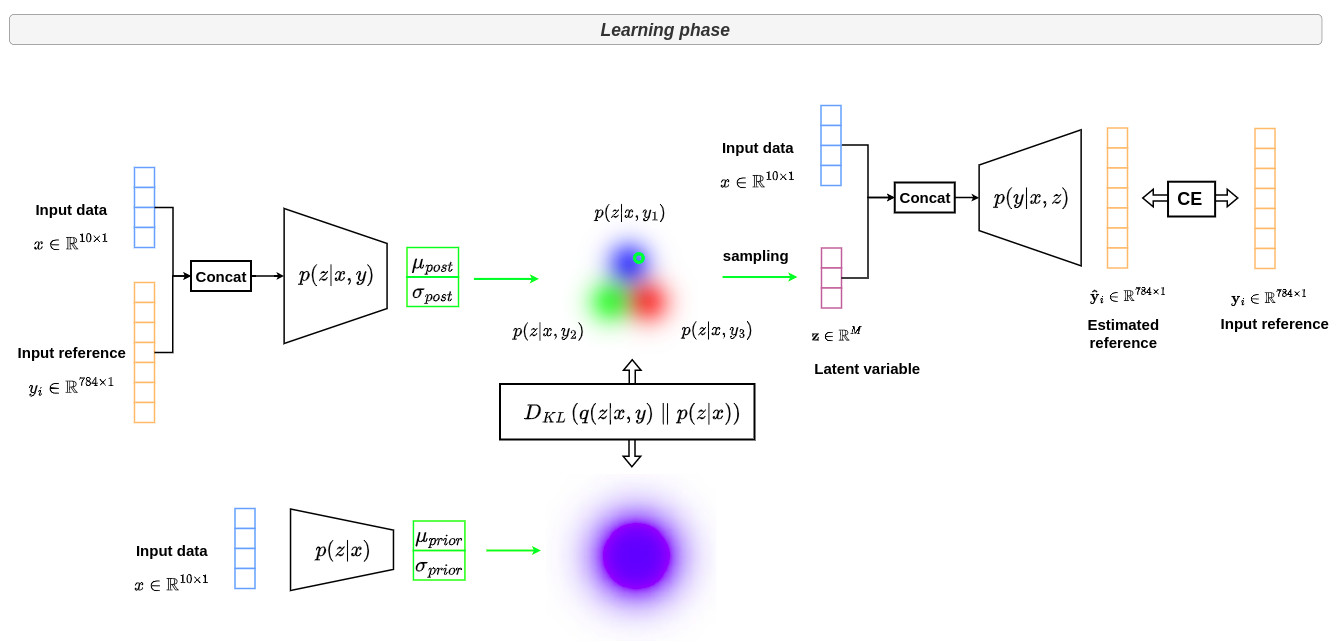
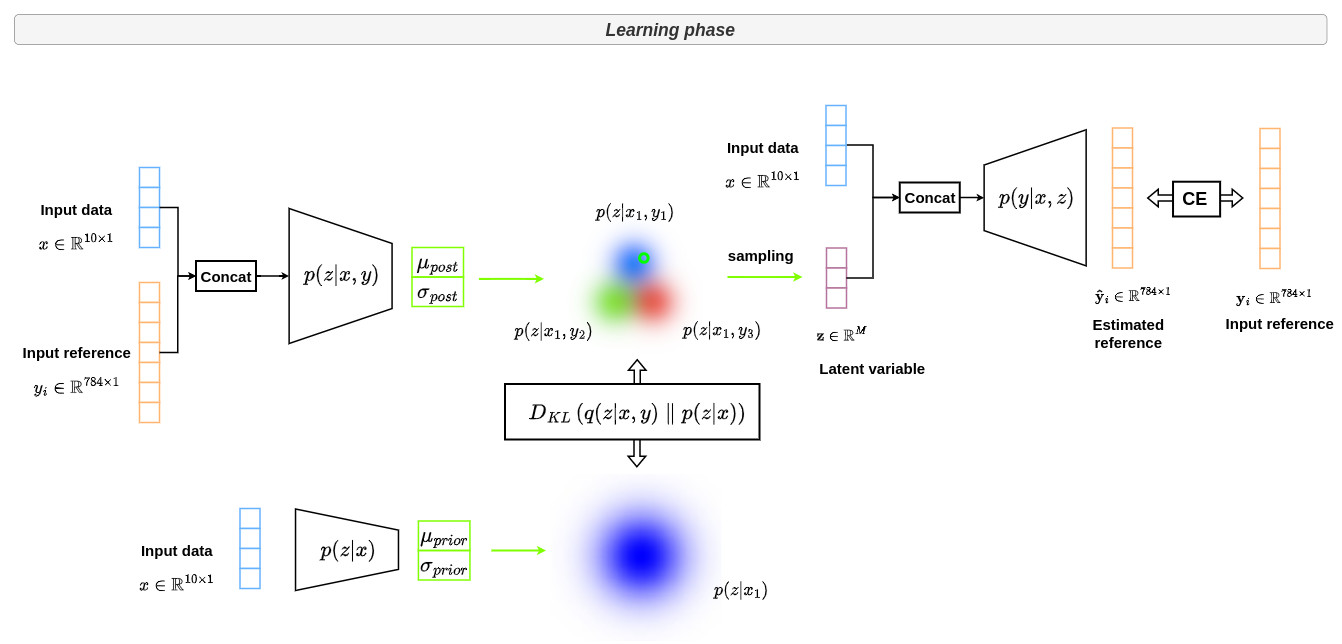
minor changes => fix mitakes + update some figures

diff --git a/collections/_tutorials/2022-09-12-tutorial-cvae.md b/collections/_tutorials/2022-09-12-tutorial-cvae.md
@@ -74,7 +74,7 @@ In parallel, the prior network learns to match this distribution by learning $$p
 
 The goal of conditional VAE is to approximate a $$p(y \vert x)$$ distribution through a latent space that captures the variability of references by learning the $$p(z \vert x,y)$$ distribution. This way, the distribution $$p(y \vert x,z)$$ will allow to generate multiple plausible references from a given $$x$$. The following scheme is applied:
 * for a given observation $$x$$, a set of latent variables $$z_i$$ is generated from $$p(z \vert x,y)$$ thanks to the sampling of the latent space posterior.
-* The set of latent variables are then combined with the observation and passed through the conditional generative process $$p(y \vert x,z)$$ to generate samples from the distribution $$y$$.
+* The set of latent variables are then combined with the observation $$x$$ and passed through the conditional generative process $$p(y \vert x,z)$$ to generate samples from the distribution $$y$$.
 * The resulting predictive distribution is finally obtained through the following expression:
 
 $$p(y \vert x) = \int_z{p(y \vert x,z) \cdot p(z \vert x) \,dz}$$
@@ -83,7 +83,7 @@ $$p(y \vert x) = \int_z{p(y \vert x,z) \cdot p(z \vert x) \,dz}$$
 
 As for the variational autoencoders, the key challenge around conditional VAE is the computation of the posterior $$p(z \vert x,y)$$. Indeed, due to intractable properties, the derivation of this distribution is complicated and requires the use of approximation techniques such as variational inference.
 
-In the conditional VAE formalism, the posterior $$p(z \vert x,y)$$ is approximated by a Gaussian distribution $$q(z \vert x,y)$$ whose mean $$\mu_{post}$$ and covariance $$\sigma_{post}$$ are defined by two functions $$g(x,y)$$ and $$h(x,y)$$.
+In the conditional VAE formalism, the posterior $$p(z \vert x,y)$$ is approximated by a Gaussian distribution $$q(z \vert x,y)$$ whose mean $$\mu_{post}$$ and covariance $$\Sigma_{post}$$ are defined by two functions $$g(x,y)$$ and $$h(x,y)$$.
 
 $$q(z \vert x,y) = \mathcal{N}\left(g(x,y),h(x,y)\right)$$
 
@@ -217,7 +217,7 @@ where $$\mathbb{E}_{z\sim q(z \vert x,y)}$$ is the mathematical expectation with
 
 &nbsp;
 
-At this stage of analysis, it is important to note that $$p(y \vert x,y)$$ will be approximated by a neural network $$f(\cdot)$$ so that $$\hat{y}=f(x,z)$$. Since this function is deterministic, it will allow to model $$p\left(y \vert \hat{y}\right)$$. By approximating $$p\left(y \vert \hat{y}\right)$$ by a Bernoulli distribution, we have
+At this stage of analysis, it is important to note that $$p(y \vert x,z)$$ will be approximated by a neural network $$f(\cdot)$$ so that $$\hat{y}=f(x,z)$$. Since this function is deterministic, it will allow to model $$p\left(y \vert \hat{y}\right)$$. By approximating $$p\left(y \vert \hat{y}\right)$$ by a Bernoulli distribution, we have
 
 $$\mathbb{E}_{z\sim q(z \vert x,y)} \left[log\left(p(y \vert \hat{y})\right)\right] = \mathbb{E}_{z\sim q(z \vert x,y)} \left[log\left( {\hat{y}}^y \cdot \left(1-\hat{y}\right)^{1-y} \right)\right]$$
 
@@ -260,13 +260,13 @@ There are different ways to leverage the cVAE formalism depending on the modelin
 
 Depending on the type of reference available, the value of conditional VAE can be different.
 
-* If there exists only one reference for a given input, the interest of the conditional VAE resides in the mixing of the input $$x$$ data with the corresponding $$y$$ in the latent space through the modeling of $$p(z \vert x,y)$$. This can be viewed as a regularisation process that "efficiently" integrates reference information during inference thanks to the dedicated latent space and the mapping $$p(y \vert x,z)$$. 
+* If there exists only one reference for a given input, the interest of the conditional VAE resides in the mixing of the input $$x$$ data with the corresponding $$y$$ in the latent space through the modeling of $$p(z \vert x,y)$$. This can be viewed as a ***regularisation process*** that "efficiently" integrates reference information during inference thanks to the dedicated latent space and the mapping $$p(y \vert x,z)$$. 
 
 > In the context of segmentation, modeling $$p(z \vert x,y)$$ can be seen as an "efficient" way to integrate shape prior into the latent space. 
 
 &nbsp;
 
-* If there exists several references for a given input, which is the case when we want to model inter/intra-expert variability, the interest of the conditional VAE resides in its capacity to model the reference variability in the latent space through the modeling of $$p(z \vert x,y)$$. This way, a single input corresponds to several latent variables that are located in the same region of the space, as illustrated in the figure below.
+* If there exists several references for a given input, which is the case when we want to model inter/intra-expert variability, the interest of the conditional VAE resides in its capacity to model the reference variability in the latent space through the modeling of $$p(z \vert x,y)$$ and the integration of completeness through the modeling of $$p(z \vert x)$$. This way, a single input corresponds to several latent variables that are located in the same region of the space, as illustrated in the figure below.
 
 ![](/collections/images/cvae/cvae_prior_depending_on_x_multiple_y.jpg)
 
